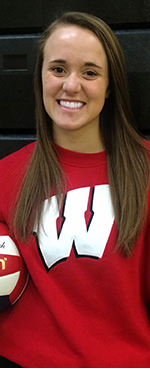
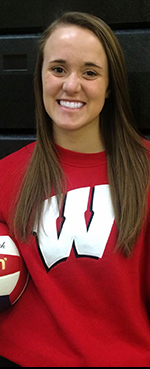
images colors

Changed region(s): [[0.0, 0.9837, 1.0, 1.0]]

diff --git a/bills/CSS/vb.css b/bills/CSS/vb.css
@@ -11,5 +11,5 @@ form {
 .thumbs {
 	float:left;
 	border: 1px;
-	border-color: white;
+	border-color: black;
 }

diff --git a/bills/vblist.php b/bills/vblist.php
@@ -15,7 +15,7 @@ echo "<h2>Volleyball Feeds</h2><br />";
 foreach($dbConnection->query($vbroster) as $row)
 {
 	echo "<div class='thumbs'><form action='./vbfeed.php' method='post'>
-    <input style='border-color:black;border:2px;' type='image' src='./Images/".$row['name'].".jpg' title='".$row['name']."' alt='".$row['name']." image'>
+    <input type='image' src='./Images/".$row['name'].".jpg' title='".$row['name']."' alt='".$row['name']." image'>
     <input type='hidden' name='name' value='".$row['name']."'>
     <input type='hidden' name='jersey' value='".$row['jersey']."'>
     <input type='hidden' name='twitter' value='".$row['twitter']."'>
